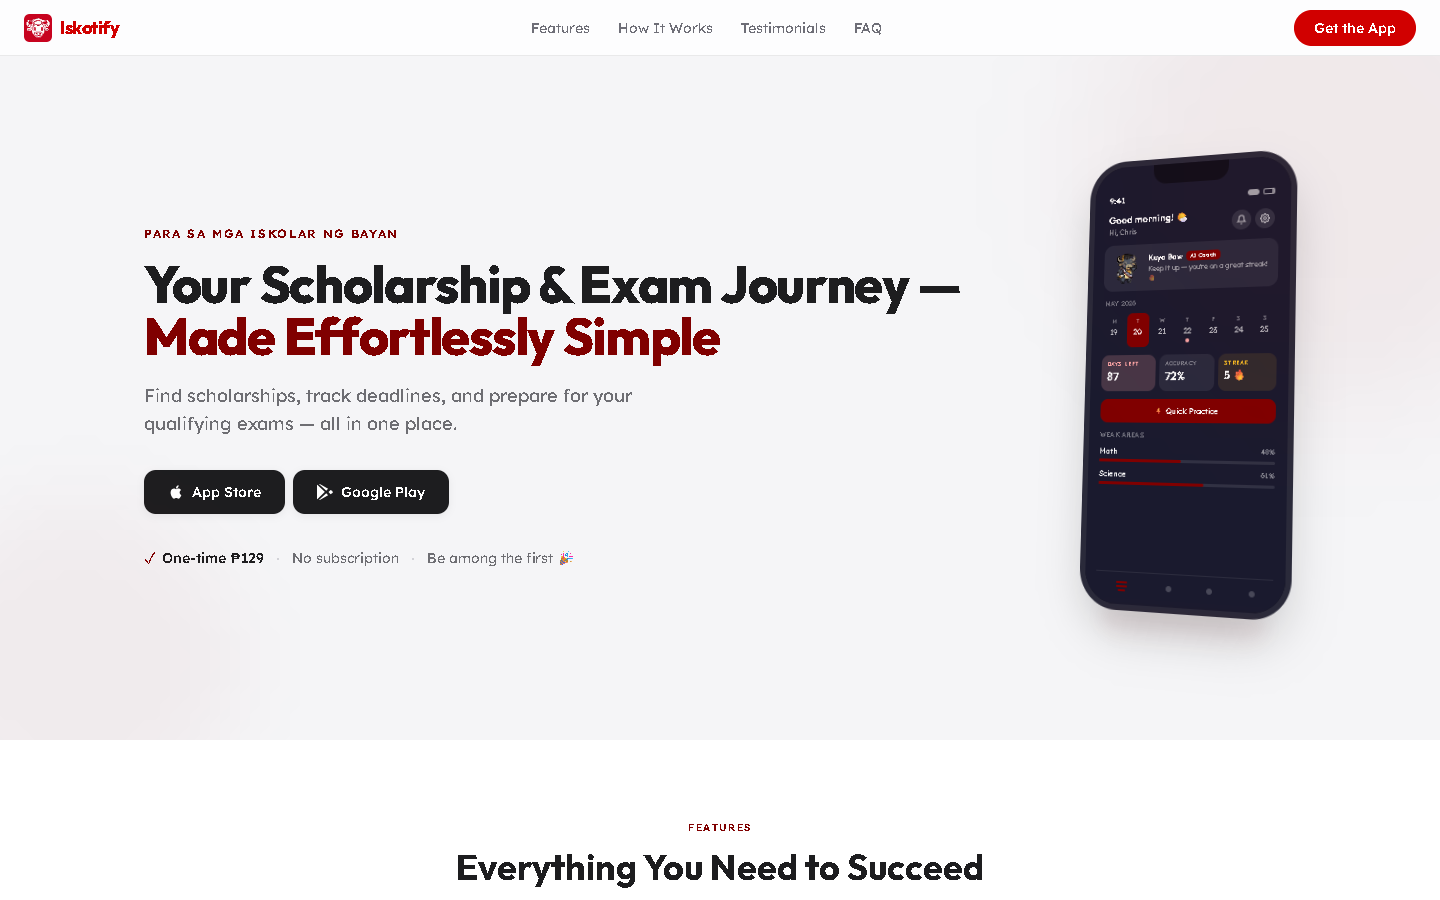
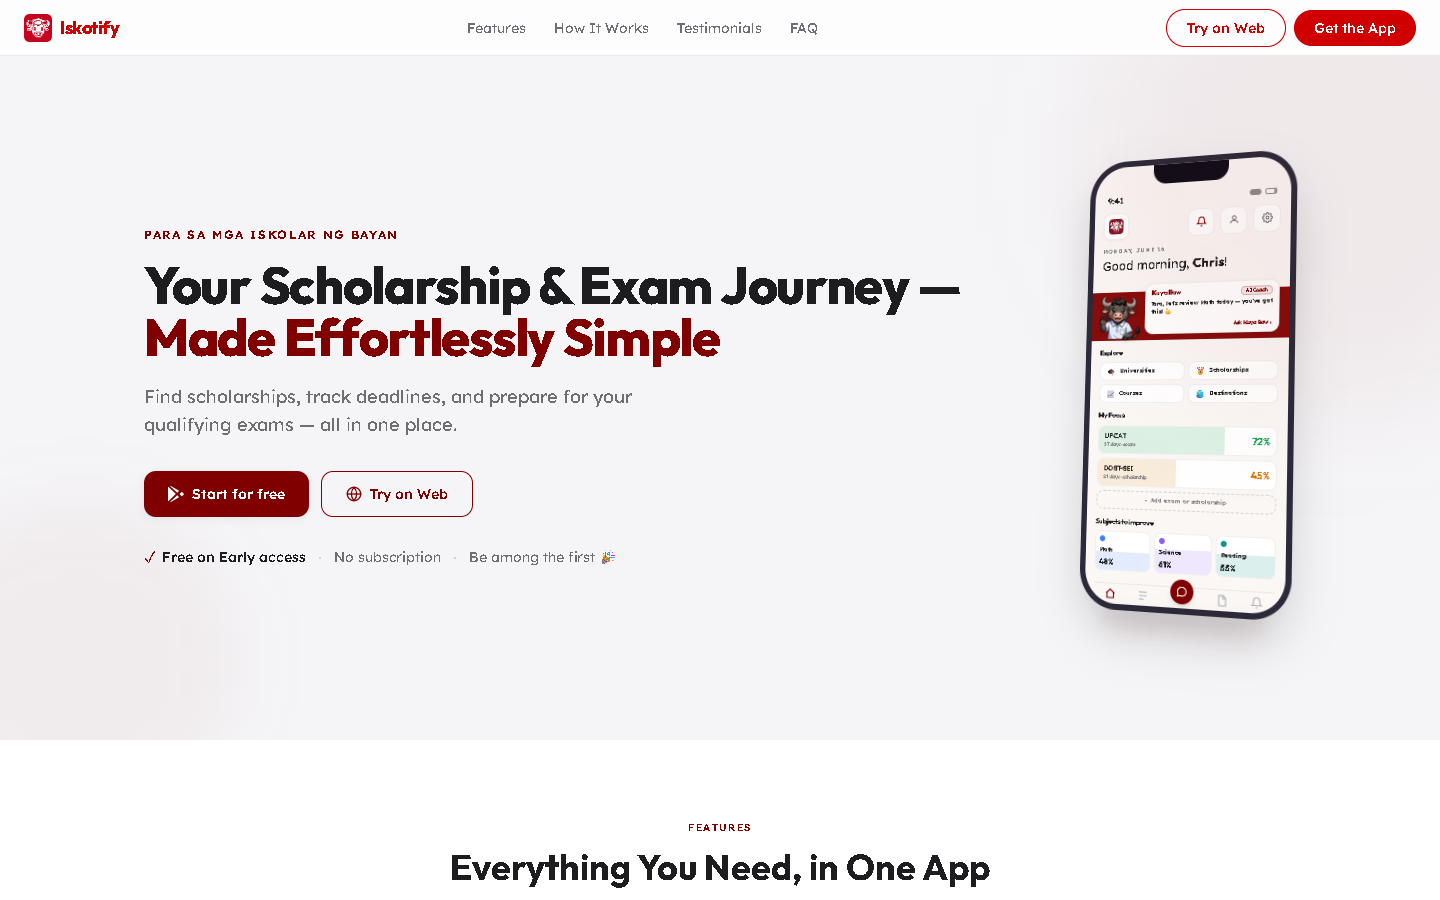
content: real project dates + Iskotify early-access; recapture iskotify.ph
- Resume: Graceland May 2026, Iskotify Jun 2026 (shipping to production w/ early-access registration)
- Iskotify card description notes early-access student registration
- Recapture Iskotify mockup from production iskotify.ph
- capture script targets iskotify.ph

diff --git a/lib/data.ts b/lib/data.ts
@@ -14,7 +14,7 @@ export const projects: Project[] = [
   {
     id: 'iskotify',
     title: 'Iskotify',
-    description: 'Scholarship and exam-prep platform for Filipino students: scholarship tracking with deadline reminders, AI-generated flashcards with spaced repetition for UPCAT/ACET/DCAT, and an AI study companion, "Kuya Baw."',
+    description: 'Scholarship and exam-prep platform for Filipino students: scholarship tracking with deadline reminders, AI-generated flashcards with spaced repetition for UPCAT/ACET/DCAT, and an AI study companion, "Kuya Baw." Shipping to production with early-access student registration.',
     category: 'Full-Stack Web App',
     image: '/assets/images/projects/iskotify.png',
     technologies: ['Next.js', 'React', 'Supabase', 'AI', 'PWA'],